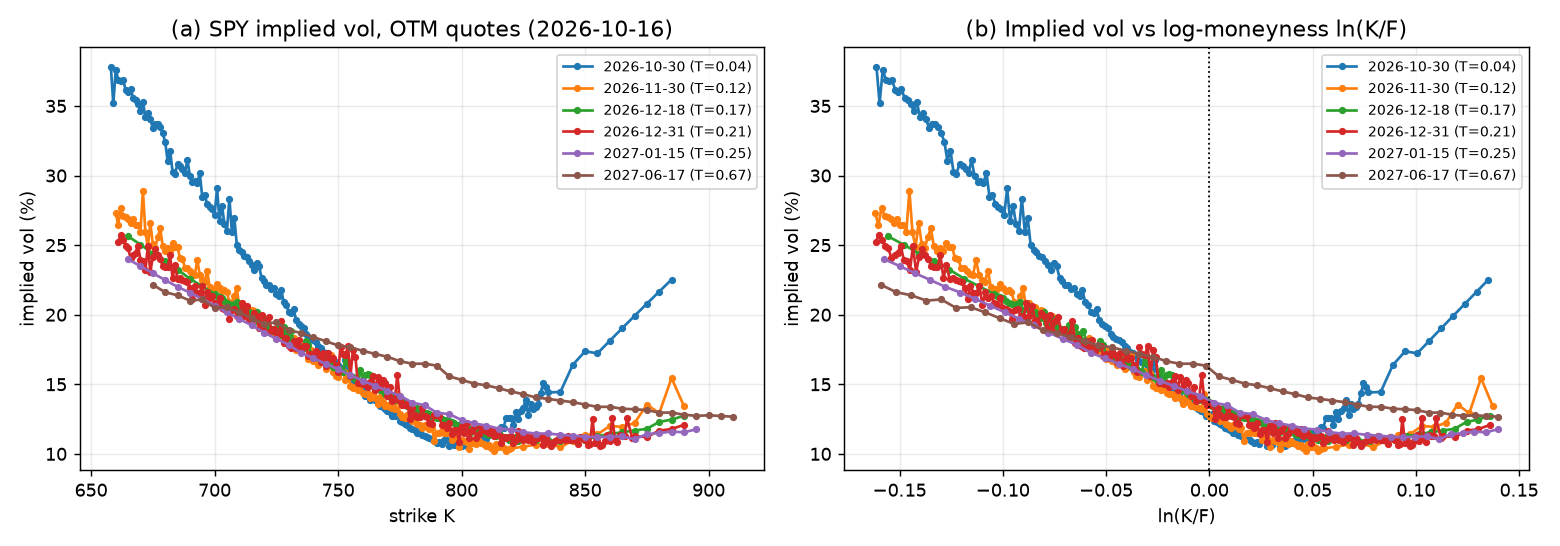
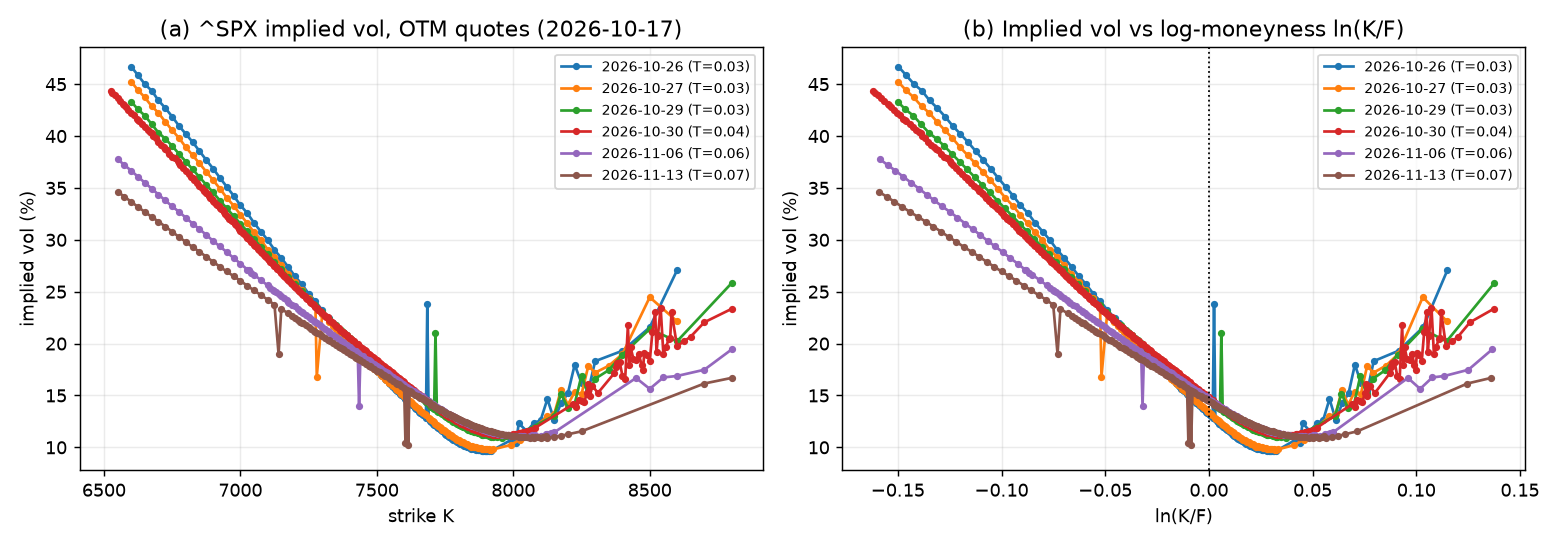
change to SPX

diff --git a/datapull.py b/datapull.py
@@ -1,13 +1,15 @@
-"""从 Yahoo Finance 拉取真实期权报价，写入 data/quotes_<标的>_REAL.csv。
+"""Pull real option quotes from Yahoo Finance into data/quotes_<symbol>_REAL.csv.
 
-流程：
-1. 用 yfinance 拉取标的现价和各到期日的期权链（看涨 + 看跌）
-2. 优先 bid/ask 中间价；盘外 bid/ask 常为 0 时用 lastPrice（美股高流动性标的仍可用）
-3. 每个到期日用看涨-看跌平价反推远期价格 F（自动吸收股息/分红的影响）
-4. 只保留虚值合约：K >= F 用看涨，K < F 用看跌
-5. 输出 CSV（含 strike, maturity, price, type 及 expiry, forward 等辅助列）
+Default symbol: ^SPX (S&P 500 index European-style options, CBOE cash settlement).
 
-画图与 JSON 见 run_extension.py。
+Pipeline:
+1. Use yfinance to fetch spot and option chains per expiry (calls + puts)
+2. Prefer bid/ask mid; when bid/ask are 0 off-hours, use lastPrice (still usable for liquid contracts)
+3. Per expiry, infer forward F from put-call parity (index options: F suffices; no separate dividend model)
+4. Keep OTM only: calls for K >= F, puts for K < F (consistent with typical smile construction)
+5. Write CSV with strike, maturity, price, type, plus expiry, forward, etc.
+
+Plotting and JSON: see run_extension.py.
 """
 import time
 import pathlib
@@ -16,12 +18,17 @@ import numpy as np
 import pandas as pd
 import yfinance as yf
 
+try:
+    from yfinance.exceptions import YFRateLimitError
+except ImportError:
+    YFRateLimitError = None
+
 ROOT = pathlib.Path(__file__).parent
 DATA = ROOT / "data"
 DATA.mkdir(exist_ok=True)
 
-# ---------------- 参数（无风险利率需与 run_extension.py 中 REAL_R 保持一致）----------------
-TICKER = "SPY"
+# ---------------- Params (risk-free R must match REAL_R in run_extension.py) ----------------
+TICKER = "^SPX"
 R = 0.045
 MIN_DAYS = 7
 MAX_EXPIRIES = 6
@@ -30,17 +37,62 @@ MONEYNESS = (0.85, 1.15)
 MAX_REL_SPREAD = 0.5
 MIN_OPEN_INTEREST = 0
 USE_LAST_PRICE = True
-SLEEP_SEC = 0.6
+SLEEP_SEC = 1.2
+RETRY_MAX = 8
+RETRY_BASE_SEC = 15.0
 # --------------------------------------
 
 
+def _is_rate_limit(exc):
+    if YFRateLimitError is not None and isinstance(exc, YFRateLimitError):
+        return True
+    return exc.__class__.__name__ == "YFRateLimitError"
+
+
+def yahoo_retry(label, fn):
+    """On Yahoo 429 rate limit: exponential backoff and retry."""
+    last = None
+    for attempt in range(RETRY_MAX):
+        try:
+            return fn()
+        except Exception as exc:
+            if not _is_rate_limit(exc):
+                raise
+            last = exc
+            wait = RETRY_BASE_SEC * (2 ** attempt)
+            print(f"Yahoo rate limit [{label}], retry in {wait:.0f}s ({attempt + 1}/{RETRY_MAX})...")
+            time.sleep(wait)
+    raise last
+
+
+def fetch_spot(tk):
+    """Index spot: fast_info (one fewer request than history)."""
+    def _load():
+        px = float(tk.fast_info["last_price"])
+        if not np.isfinite(px) or px <= 0:
+            raise RuntimeError("fast_info has no valid last_price")
+        return px
+
+    return yahoo_retry("spot", _load)
+
+
+def list_expiries(tk):
+    """List of available expiry dates."""
+    return yahoo_retry("expiries", lambda: list(tk.options))
+
+
+def fetch_option_chain(tk, expiry):
+    """Option chain for a single expiry."""
+    return yahoo_retry(f"chain {expiry}", lambda: tk.option_chain(expiry))
+
+
 def year_frac(expiry, now):
-    """到期日（按当天 16:00 收盘计）距离现在的年化期限。"""
+    """Year fraction from now to expiry (expiry counted at 16:00 close that day)."""
     return (pd.Timestamp(expiry) + pd.Timedelta(hours=16) - now).total_seconds() / (365.0 * 86400.0)
 
 
 def attach_mid(df, kind):
-    """计算期权价格 mid：优先买卖中间价，否则在 USE_LAST_PRICE 时用 lastPrice。"""
+    """Option mid price: bid/ask mid when available; else lastPrice if USE_LAST_PRICE."""
     need = ["strike", "bid", "ask", "volume", "openInterest"]
     if "lastPrice" not in df.columns:
         df = df.copy()
@@ -62,12 +114,12 @@ def attach_mid(df, kind):
 
 
 def quoted_side(df, kind):
-    """有有效 mid 的合约，用于反推远期价格（不施加未平仓量过滤）。"""
+    """Contracts with valid mid, for inferring forward (no open-interest filter)."""
     return attach_mid(df, kind)
 
 
 def clean_side(df, kind):
-    """用于输出的合约：价差过滤（仅双边报价）+ 未平仓量。"""
+    """Contracts for output: spread filter (two-sided quotes only) + open interest."""
     out = quoted_side(df, kind)
     spread_ok = (~out["has_bidask"]) | ((out["ask"] - out["bid"]) / out["mid"] <= MAX_REL_SPREAD)
     out = out[spread_ok]
@@ -76,14 +128,14 @@ def clean_side(df, kind):
 
 
 def overlap_strikes(calls, puts):
-    """同 strike 同时有看涨、看跌报价的数量。"""
+    """Count strikes with both call and put quotes."""
     if calls.empty or puts.empty:
         return 0
     return len(set(calls.strike) & set(puts.strike))
 
 
 def implied_forward(calls, puts, T, r, spot):
-    """看涨-看跌平价 C - P = e^{-rT}(F - K) 反推远期价格；取最接近现价的若干个行权价的中位数。"""
+    """Put-call parity C - P = e^{-rT}(F - K) for F; median over strikes nearest spot (up to 5)."""
     both = calls[["strike", "mid"]].merge(puts[["strike", "mid"]], on="strike", suffixes=("_c", "_p"))
     if both.empty:
         return None
@@ -94,18 +146,19 @@ def implied_forward(calls, puts, T, r, spot):
 
 
 def forward_fallback(spot, T, r):
-    """同 strike 配对不足时，用 F ≈ S e^{rT} 近似（忽略股息；SPY 有分红时会略偏）。"""
+    """When strike pairing is thin: F approx S e^{rT} (no dividend on spot; ^SPX should prefer parity F)."""
     return float(spot * np.exp(r * T))
 
 
-def pick_expiries(tk, spot, now):
-    """扫描若干到期日，选同 strike 配对最多、且保留虚值后仍有数据的到期日。"""
-    expiries = tk.options
+def pick_expiries(tk, spot, now, expiries):
+    """Scan expiries; pick those with most strike overlap and OTM rows left after clean; cache chains."""
     candidates = [e for e in expiries if year_frac(e, now) * 365.0 >= MIN_DAYS][:SCAN_EXPIRIES]
     scored = []
+    cached = {}
     for e in candidates:
         time.sleep(SLEEP_SEC)
-        chain = tk.option_chain(e)
+        chain = fetch_option_chain(tk, e)
+        cached[e] = chain
         T = year_frac(e, now)
         qc, qp = quoted_side(chain.calls, "C"), quoted_side(chain.puts, "P")
         ov = overlap_strikes(qc, qp)
@@ -126,25 +179,26 @@ def pick_expiries(tk, spot, now):
                 chosen.append(s["expiry"])
             if len(chosen) >= MAX_EXPIRIES:
                 break
-    return chosen, scored
+    return chosen, scored, cached
 
 
 def pull_quotes(ticker):
-    """拉取现价和期权链，返回 (现价, 拉取时间, 清洗后的报价表)。"""
+    """Fetch spot and chains; return (spot, pull time, cleaned quotes DataFrame)."""
     tk = yf.Ticker(ticker)
-    spot = float(tk.history(period="5d")["Close"].iloc[-1])
-    if len(tk.options) == 0:
+    spot = fetch_spot(tk)
+    expiries = list_expiries(tk)
+    if len(expiries) == 0:
         raise RuntimeError(
-            f"Yahoo Finance 没有 {ticker} 的期权链。请使用美股期权标的，例如 SPY、AAPL、QQQ。")
+            f"Yahoo Finance has no option chain for {ticker}. "
+            f"Use ^SPX for index European options; ETFs: SPY, QQQ, etc.")
 
     now = pd.Timestamp.now()
-    use, scan = pick_expiries(tk, spot, now)
-    print(f"{ticker} 现价 {spot:.2f}，扫描 {len(scan)} 个到期日，选用 {use}")
+    use, scan, cached = pick_expiries(tk, spot, now, expiries)
+    print(f"{ticker} spot {spot:.2f}, scanned {len(scan)} expiries, using {use}")
 
     rows = []
     for e in use:
-        time.sleep(SLEEP_SEC)
-        chain = tk.option_chain(e)
+        chain = cached[e]
         T = year_frac(e, now)
         qc, qp = quoted_side(chain.calls, "C"), quoted_side(chain.puts, "P")
         calls, puts = clean_side(chain.calls, "C"), clean_side(chain.puts, "P")
@@ -154,20 +208,20 @@ def pull_quotes(ticker):
         if F is None:
             F = forward_fallback(spot, T, R)
             f_src = "Spot*exp(rT)"
-        print(f"  到期 {e}: 同 strike 配对 {ov}，远期 F={F:.2f} ({f_src})，"
-              f"清洗后 看涨/看跌 {len(calls)}/{len(puts)}")
+        print(f"  expiry {e}: strike pairs {ov}, forward F={F:.2f} ({f_src}), "
+              f"cleaned calls/puts {len(calls)}/{len(puts)}")
         otm = pd.concat([calls[calls.strike >= F], puts[puts.strike < F]])
         otm = otm[(otm.strike / F >= MONEYNESS[0]) & (otm.strike / F <= MONEYNESS[1])]
         otm["maturity"] = T
         otm["expiry"] = e
         otm["forward"] = F
         rows.append(otm)
-        print(f"    保留 {len(otm)} 个虚值合约 (moneyness {MONEYNESS})")
+        print(f"    kept {len(otm)} OTM contracts (moneyness {MONEYNESS})")
 
     if len(rows) == 0 or sum(len(x) for x in rows) == 0:
         raise RuntimeError(
-            f"{ticker} 没有可用报价。当前默认 {TICKER!r}；若仍失败请确认网络/代理，"
-            f"或在美股交易时段（北京时间约 21:30-04:00）再跑。")
+            f"No usable quotes for {ticker}. Default is {TICKER!r}; if it still fails, check network/proxy, "
+            f"wait a few minutes to avoid Yahoo rate limits, or run during US session (~21:30-04:00 Beijing).")
 
     quotes = pd.concat(rows, ignore_index=True).rename(columns={"mid": "price"})
     cols = ["strike", "maturity", "price", "type", "expiry", "forward", "bid", "ask", "volume", "openInterest"]
@@ -179,4 +233,4 @@ if __name__ == "__main__":
     name = TICKER.replace("^", "")
     csv_path = DATA / f"quotes_{name}_REAL.csv"
     quotes.to_csv(csv_path, index=False, encoding="utf-8")
-    print(f"已保存 {len(quotes)} 条报价 -> {csv_path}（拉取时间 {now}，现价 {spot:.2f}）")
+    print(f"Saved {len(quotes)} quotes -> {csv_path} (pulled at {now}, spot {spot:.2f})")

diff --git a/run_extension.py b/run_extension.py
@@ -1,4 +1,4 @@
-"""Extension: SPY implied-vol smile (fig6) and Heston hedging supplement (fig7)."""
+"""Extension: ^SPX implied-vol smile (fig6) and Heston hedging supplement (fig7)."""
 import json, sys, pathlib
 from datetime import datetime, timezone
 
@@ -19,7 +19,7 @@ rng = np.random.default_rng(7)
 plt.rcParams.update({"figure.dpi": 130, "axes.grid": True, "grid.alpha": .25, "font.size": 10})
 
 # 真实微笑（与 datapull.py 保持一致）
-REAL_TICKER = "SPY"
+REAL_TICKER = "^SPX"
 REAL_R = 0.045
 
 S0, r = 100.0, 0.03
@@ -108,7 +108,7 @@ R["validation"] = dict(
     mc_ci95=float(1.96 * mc_pay.std() / np.sqrt(len(mc_pay))),
 )
 
-# --- 1. Real SPY smile -> fig6 ---
+# --- 1. Real ^SPX smile -> fig6 ---
 quotes_csv = DATA / f"quotes_{REAL_TICKER.replace('^', '')}_REAL.csv"
 if not quotes_csv.is_file():
     raise FileNotFoundError(

diff --git a/README.md b/README.md
@@ -24,11 +24,11 @@ pip install -r requirements.txt
 pytest -q                  # 35 tests, ~5 s
 python run_research.py     # Section A  -> figures/fig8–9, results_research.json
 python run_all.py          # Section B  -> figures/fig1–5, results.json
-python datapull.py         # Section C1 data -> data/quotes_SPY_REAL.csv (needs network)
+python datapull.py         # Section C1 data -> data/quotes_SPX_REAL.csv (needs network)
 python run_extension.py    # Section C  -> figures/fig6–7, results_extension.json
 ```
 
-Layout: `src/itobs/` (`bs`, `ito`, `martingale`, `pricing`, `hedging`, `heston`, `implied_vol`, `theory`), `tests/`, `docs/derivations.md`, `data/` (SPY option quotes from `datapull.py`), `run_*.py`, `datapull.py`.
+Layout: `src/itobs/` (`bs`, `ito`, `martingale`, `pricing`, `hedging`, `heston`, `implied_vol`, `theory`), `tests/`, `docs/derivations.md`, `data/` (^SPX option quotes from `datapull.py`), `run_*.py`, `datapull.py`.
 
 ---
 
@@ -206,21 +206,21 @@ For near-delta-neutral positions $`\Theta \approx -\frac{1}{2}\sigma^2 S^2 \Gamm
 
 ## C. Extension: implied volatility and the smile
 
-### C1. Implied volatility: where Black-Scholes breaks (SPY)
+### C1. Implied volatility: where Black-Scholes breaks (^SPX)
 
 **Question.** BS says one number $\sigma$ prices every option. What does the **market** look like when we invert BS strike by strike from real quotes?
 
-**Method.** `datapull.py` loads SPY option chains from Yahoo Finance: mid (or last) prices, put–call parity to infer the forward **F** per expiry (dividends absorbed in **F**), OTM calls for **K ≥ F** and OTM puts for **K < F**, then writes `data/quotes_SPY_REAL.csv`. `run_extension.py` inverts Black-Scholes per strike with `implied_vol.smile_from_quotes`, using $S_{\mathrm{eff}} = F e^{-rT}$ each expiry (equivalent to spot plus continuous yield in BS). Summary numbers are in `results_extension.json` under `real_smile`. Update **r** in both `datapull.py` and `run_extension.py` (`REAL_R`) when refreshing data.
+**Method.** `datapull.py` loads **^SPX** (S&P 500 index, European-style) option chains from Yahoo Finance: mid (or last) prices, put–call parity to infer the forward **F** per expiry, OTM calls for **K ≥ F** and OTM puts for **K < F**, then writes `data/quotes_SPX_REAL.csv`. `run_extension.py` inverts Black-Scholes per strike with `implied_vol.smile_from_quotes`, using $S_{\mathrm{eff}} = F e^{-rT}$ each expiry (equivalent to spot plus continuous yield in BS). Summary numbers are in `results_extension.json` under `real_smile`. Update **r** in both `datapull.py` and `run_extension.py` (`REAL_R`) when refreshing data.
 
 ![Smile](figures/fig6_smile.png)
 
 **Interpretation** (example from the bundled quote file; re-run `datapull.py` to refresh).
 
-**(a)** Implied vol is **not flat**: e.g. for expiry 2026-12-18, IV is about **25.6%** at **K=665** vs **12.7%** at **K=890**, with ATM near **13.8%** — the usual equity-index **downward skew** (puts richer than calls at the same distance from the forward).
+**(a)** Implied vol is **not flat**: e.g. for expiry **2026-10-30**, IV is about **44.4%** at **K=6525** vs **23.3%** at **K=8800**, with ATM near **14.8%** — the usual equity-index **downward skew** (OTM puts carry higher implied vol than OTM calls at comparable distance from **F**).
 
-**(b)** Panel (b) plots IV vs **ln(K/F)** so skew is comparable across expiries without guessing a dividend yield on spot.
+**(b)** Panel (b) plots IV vs **ln(K/F)** so skew is comparable across expiries without a separate dividend adjustment on spot (forwards come from parity in the data).
 
-**(c)** Short-dated slices are often **steeper** than longer ones in the sample file; see multiple expiries in the figure and `real_smile.skew_sample` in JSON.
+**(c)** In the bundled file, **near-term** expiries (e.g. 2026-10-26–30) show **higher wing IVs** and often a **steeper** smile than **2026-11-06** and **2026-11-13**; see the figure and `real_smile.skew_sample` / `atm_iv` in JSON (six expiries, 1126 OTM quotes, $r=4.5%$, effective spot ≈ **7657**).
 
 Which BS assumption fails in practice? **Constant $\sigma$.** Implied vol is best read as a **quoting convention**, not a single forecast of future volatility.
 
@@ -279,7 +279,7 @@ Randomised tests use fixed seeds and tolerances of several standard errors.
 
 ## Limitations and next steps
 
-- **SPY quotes are a snapshot, not calibrated.** `datapull.py` uses Yahoo mids/lasts and a flat **r**; fig6 is descriptive. Calibrating Heston (or another model) to `quotes_SPY_REAL.csv` is a natural next step.
+- **^SPX quotes are a snapshot, not calibrated.** `datapull.py` uses Yahoo mids/lasts and a flat **r**; fig6 is descriptive. Calibrating Heston (or another model) to `quotes_SPX_REAL.csv` is a natural next step.
 - **The Heston error floor is not decomposed.** A test of "residual ≈ Vega × volatility shocks" would turn finding 2 from an observation into an explanation. Adding a second option to hedge Vega would show how much of the floor disappears.
 - **A1's prediction is first-order in $\Delta t$.** It is least accurate at very small N (about 7% at N=8).
 - **Heston paths use full-truncation Euler.** In the earlier pricer check, Monte Carlo sat about 0.4% below the semi-analytic price (8.897 vs 8.929), slightly outside its sampling interval; we attribute this to discretisation but did not isolate it. We did not implement the QE scheme.
